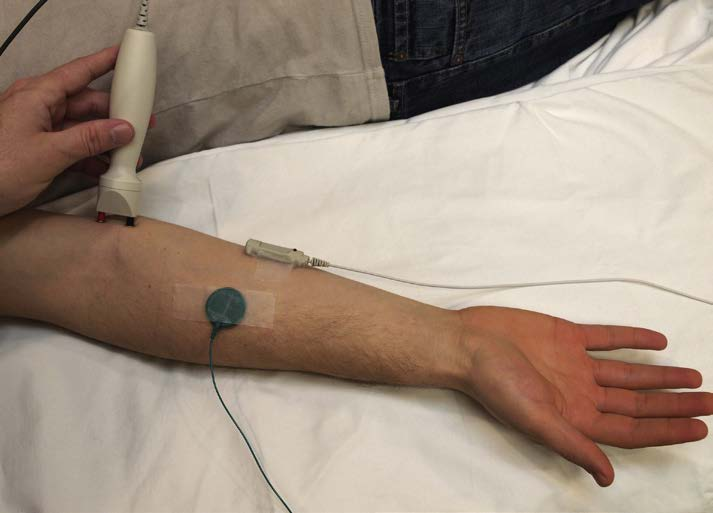
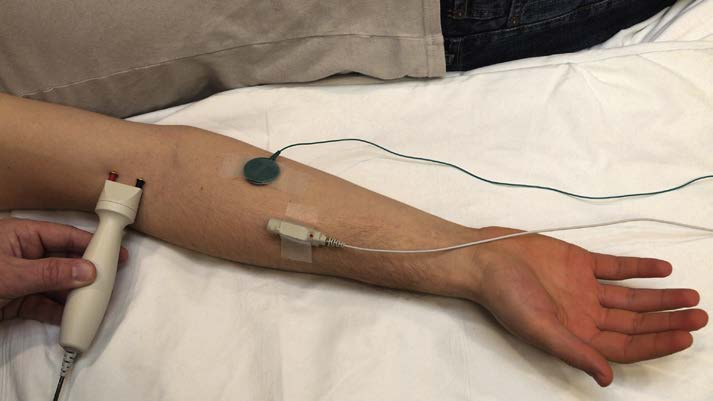
Fix NCV textbook image mappings

diff --git a/src/clinical/ncvStudies.test.ts b/src/clinical/ncvStudies.test.ts
@@ -1,3 +1,8 @@
+/// <reference types="node" />
+
+import { createHash } from 'node:crypto'
+import { readFileSync } from 'node:fs'
+import { resolve } from 'node:path'
 import { describe, expect, it } from 'vitest'
 import { commonNcvStudies, ncvStudies, supplementalNcvStudies } from './ncvStudies'
 import { ncvNavigationEntries, ncvNavigationGroups } from './ncvNavigation'
@@ -51,6 +56,44 @@ describe('NCV technique reference', () => {
     for (const entry of ncvNavigationEntries) {
       expect(entry.listTitle).not.toMatch(recordedMusclePattern)
       expect(entry.listSubtitle).not.toMatch(recordedMusclePattern)
+    }
+  })
+
+  it('keeps the audited textbook photos attached to the correct figure labels', () => {
+    const auditedStudyImages: Record<string, string[]> = {
+      'median-radial-digit1': ['fig-10-11-a.jpg', 'fig-10-11-b.jpg'],
+      'median-ulnar-palmar-mixed': ['fig-10-12-a.jpg', 'fig-10-12-b.jpg'],
+      'radial-motor-eip': ['fig-10-13-a.jpg', 'fig-10-13-b.jpg', 'fig-10-13-c.jpg', 'fig-10-13-d.jpg'],
+      'radial-sensory': ['fig-10-14.jpg'],
+      'mabc-sensory': ['fig-10-15.jpg'],
+      'labc-sensory': ['fig-10-16.jpg'],
+      'peroneal-motor-edb': ['fig-11-02-a.jpg', 'fig-11-02-b.jpg', 'fig-11-02-c.jpg'],
+    }
+    const auditedImageHashes: Record<string, string> = {
[14 lines of base64/hex data omitted]
+    }
+
+    for (const [studyId, expectedFilenames] of Object.entries(auditedStudyImages)) {
+      const study = ncvStudies.find((entry) => entry.id === studyId)
+      expect(study?.images.map((entry) => entry.src.split('/').at(-1)), studyId).toEqual(expectedFilenames)
+    }
+
+    for (const [filename, expectedHash] of Object.entries(auditedImageHashes)) {
+      const asset = readFileSync(resolve(process.cwd(), 'public/ncv-guides', filename))
+      expect(createHash('sha256').update(asset).digest('hex'), filename).toBe(expectedHash)
     }
   })
 })
